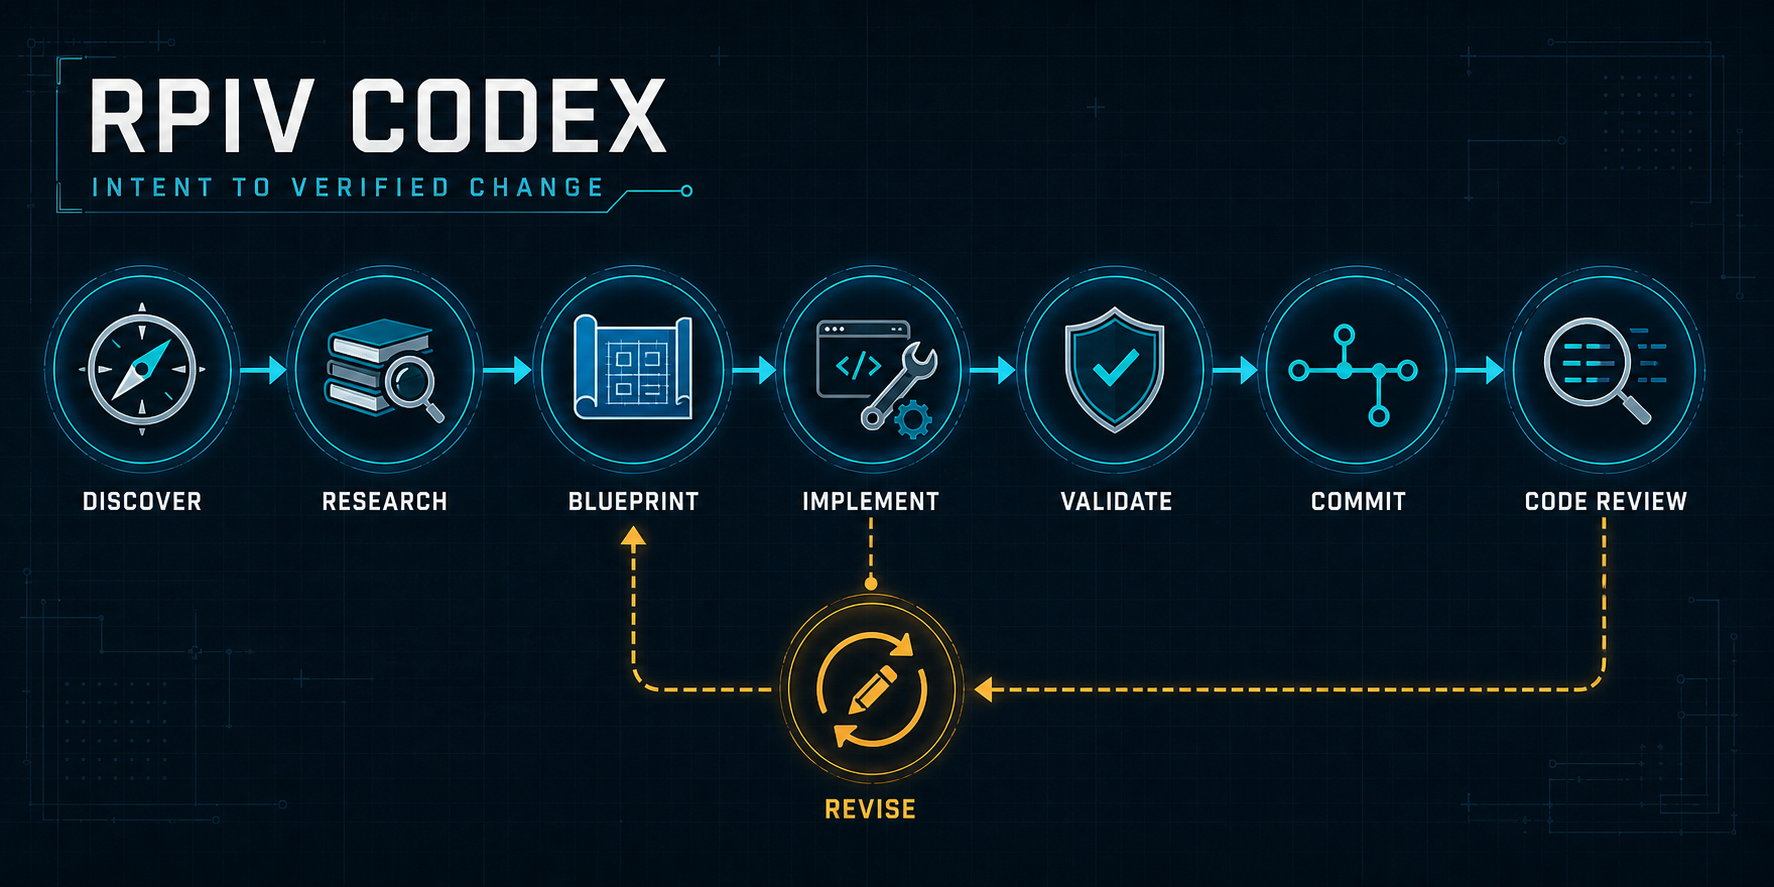
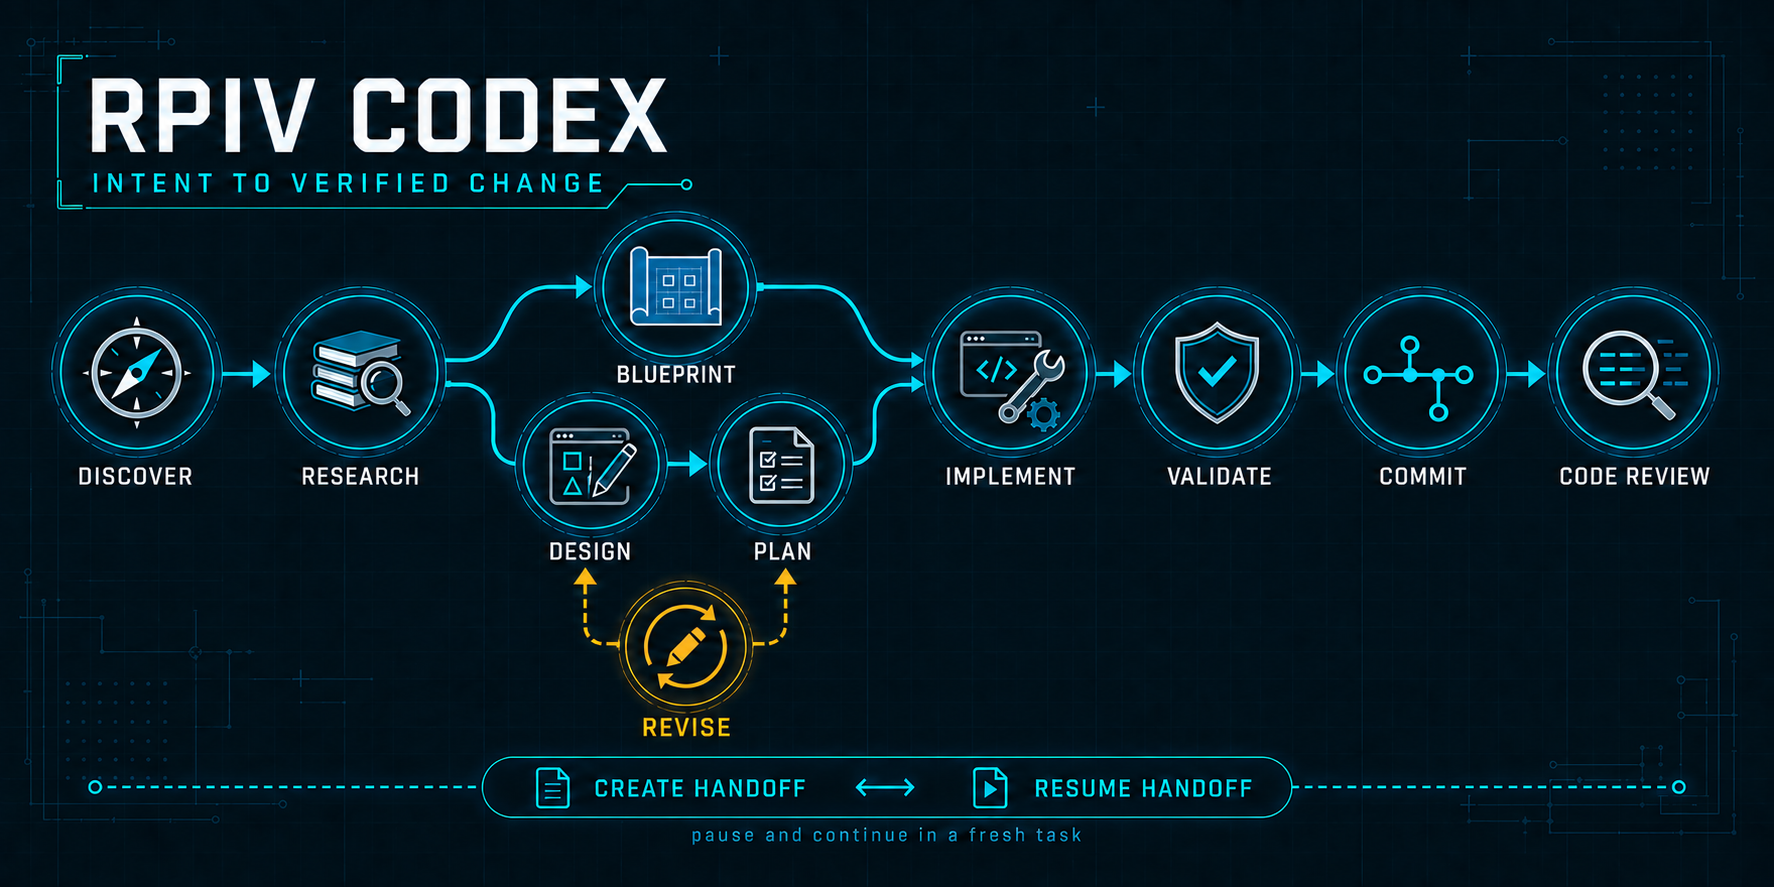
Improve README onboarding

diff --git a/README.md b/README.md
@@ -1,61 +1,135 @@
 # RPIV Codex
 
-![RPIV Codex workflow from Discover through Code Review, with Revise feeding back into Blueprint](docs/assets/rpiv-codex-workflow.png)
+![RPIV Codex workflow from intent to verified change, with Blueprint and Design-to-Plan routes, revision, and handoffs](docs/assets/rpiv-codex-workflow.png)
 
-RPIV Codex is an independent Codex port of the RPIV feature-development workflow. It provides Codex-native skills for discovery, research, design, planning, revision, implementation, validation, local commits, and code review.
+RPIV Codex is an independent Codex-native port of the RPIV feature-development workflow. It helps developers take an unclear request through discovery, grounded research, design, planning, implementation, validation, local commits, and verified code review.
 
-The plugin is under active development and is distributed through the Git marketplace bundled in this repository. Codex fetches and caches it internally; users do not need to clone the repository.
+The workflow is deliberately controlled rather than autonomous. Each skill owns one stage, writes or updates a durable artifact when appropriate, and stops at an explicit boundary. A recommended next stage is a handoff—not permission to continue changing code, committing, pushing, or publishing.
 
 ## Install
 
-Add the GitHub repository as a Codex marketplace, then install the plugin:
+Add this repository as a Codex marketplace and install the RPIV workflow plugin:
 
 ```bash
 codex plugin marketplace add rxreyn3/rpiv-codex --ref main
 codex plugin add rpiv-codex@rpiv-codex
+```
+
+Start a fresh Codex task after installation so the skills are loaded.
+
+The repository also publishes [Codex Advisor](docs/CODEX-ADVISOR.md), an optional separate plugin for focused second opinions:
+
+```bash
 codex plugin add codex-advisor@rpiv-codex
 ```
 
-Start a fresh Codex task after installation so the new skills are loaded.
+## Choose a workflow
+
+Start with the stage that matches what you already know. You do not need to run every stage.
+
+```text
+                         ┌────────► Blueprint ────────┐
+Discover ──► Research ───┤                            ├──► Implement ──► Validate ──► Commit ──► Code Review
+                         └────────► Design ──► Plan ──┘
+
+                                       Revise the current design or plan when evidence changes
+                              Create Handoff ↔ Resume Handoff whenever work must cross tasks
+```
+
+There are two routes from research to an implementation plan:
+
+- **Blueprint** produces one reviewed phased plan in a combined workflow. It accepts a ready research or solutions artifact, a well-scoped feature description, or recent-artifact selection.
+- **Design → Plan** separates architectural design from plan production. Use it when design needs to be developed, verified, and resumed one vertical slice at a time before becoming an implementation plan.
+
+### Choose your starting point
+
+| When you need to… | Use | Result |
+| --- | --- | --- |
+| Turn an idea or product artifact into explicit requirements | [`$rpivc-discover`](plugins/rpiv-codex/skills/rpivc-discover/SKILL.md) | A Feature Requirements Document under `.rpiv/artifacts/discover/` |
+| Investigate repository behavior or an external contract without implementing | [`$rpivc-research`](plugins/rpiv-codex/skills/rpivc-research/SKILL.md) | Grounded research under `.rpiv/artifacts/research/` |
+| Produce one reviewed phased plan directly | [`$rpivc-blueprint`](plugins/rpiv-codex/skills/rpivc-blueprint/SKILL.md) | An implementation-ready plan under `.rpiv/artifacts/plans/` |
+| Resolve architecture and decompose complex work one slice at a time | [`$rpivc-design`](plugins/rpiv-codex/skills/rpivc-design/SKILL.md) | A resumable design under `.rpiv/artifacts/designs/` |
+| Convert a ready design into a reviewed implementation plan | [`$rpivc-plan`](plugins/rpiv-codex/skills/rpivc-plan/SKILL.md) | A plan preserving the design's approved slices and success criteria |
+| Update the current design or plan after feedback or new evidence | [`$rpivc-revise`](plugins/rpiv-codex/skills/rpivc-revise/SKILL.md) | A reviewed, history-preserving artifact revision |
+| Execute an approved plan, one phase or the full plan | [`$rpivc-implement`](plugins/rpiv-codex/skills/rpivc-implement/SKILL.md) | Source changes checked against each phase's criteria |
+| Audit an implementation against its plan | [`$rpivc-validate`](plugins/rpiv-codex/skills/rpivc-validate/SKILL.md) | An evidence-backed report under `.rpiv/artifacts/validation/` |
+| Group current changes into atomic local commits | [`$rpivc-commit`](plugins/rpiv-codex/skills/rpivc-commit/SKILL.md) | An approved local commit or commit series; never a push |
+| Review pending changes, a commit, branch, range, folder, or files | [`$rpivc-code-review`](plugins/rpiv-codex/skills/rpivc-code-review/SKILL.md) | A verified review under `.rpiv/artifacts/reviews/` |
+| Preserve in-flight work before changing tasks | [`$rpivc-create-handoff`](plugins/rpiv-codex/skills/rpivc-create-handoff/SKILL.md) | A concise state snapshot under `.rpiv/artifacts/handoffs/` |
+| Continue from a handoff after verifying current repository state | [`$rpivc-resume-handoff`](plugins/rpiv-codex/skills/rpivc-resume-handoff/SKILL.md) | An approved continuation from the next concrete task |
+
+## Examples
+
+Start from a feature idea:
+
+```text
+$rpivc-discover Add a safe way for users to retry a failed checkout payment without creating a duplicate charge
+```
+
+Research a ready discovery artifact:
+
+```text
+$rpivc-research Trace the current payment-attempt lifecycle and idempotency controls using .rpiv/artifacts/discover/2026-09-29_09-00-00_checkout-retry.md
+```
+
+Create a plan directly with Blueprint:
+
+```text
+$rpivc-blueprint .rpiv/artifacts/research/2026-09-29_10-00-00_checkout-retry.md
+```
+
+Or start the resumable Design route:
+
+```text
+$rpivc-design .rpiv/artifacts/research/2026-09-29_10-00-00_checkout-retry.md
+```
+
+If another design slice remains, resume it in a fresh task:
+
+```text
+$rpivc-design --resume .rpiv/artifacts/designs/2026-09-29_11-00-00_checkout-retry.md
+```
+
+Once the design is ready, turn it into a plan:
+
+```text
+$rpivc-plan .rpiv/artifacts/designs/2026-09-29_11-00-00_checkout-retry.md
+```
+
+Implement one approved phase when you want a checkpoint-sized change:
+
+```text
+$rpivc-implement .rpiv/artifacts/plans/2026-09-29_12-00-00_checkout-retry.md Phase 2
+```
+
+Or implement the complete ready plan, then validate it after every phase is finished:
+
+```text
+$rpivc-implement .rpiv/artifacts/plans/2026-09-29_12-00-00_checkout-retry.md
+$rpivc-validate .rpiv/artifacts/plans/2026-09-29_12-00-00_checkout-retry.md
+```
+
+Commands above are prompts to enter in Codex, not shell commands. Artifact paths are examples; use the paths produced by your own run.
 
 ## Update
 
-Refresh the Git marketplace snapshot, then reinstall the plugin:
+Refresh the marketplace snapshot and reinstall whichever plugins you use:
 
 ```bash
 codex plugin marketplace upgrade rpiv-codex
 codex plugin add rpiv-codex@rpiv-codex
-codex plugin add codex-advisor@rpiv-codex
+codex plugin add codex-advisor@rpiv-codex  # optional
 ```
 
 Start a fresh Codex task after updating.
 
 ## Remove
 
-Remove the installed plugin and its marketplace source:
-
 ```bash
 codex plugin remove rpiv-codex@rpiv-codex
-codex plugin remove codex-advisor@rpiv-codex
+codex plugin remove codex-advisor@rpiv-codex  # if installed
 codex plugin marketplace remove rpiv-codex
 ```
-
-## Skills
-
-The repository also publishes the standalone [Codex Advisor](docs/CODEX-ADVISOR.md) plugin for focused second opinions outside RPIV workflows.
-
-- Discover
-- Research
-- Design
-- Plan
-- Blueprint
-- Revise
-- Implement
-- Validate
-- Commit
-- Code Review
-
-Each stage preserves an explicit stop boundary. Recommended successor stages are handoffs for a fresh Codex task, not permission to continue automatically.
 
 ## Maintainer workflow
 
